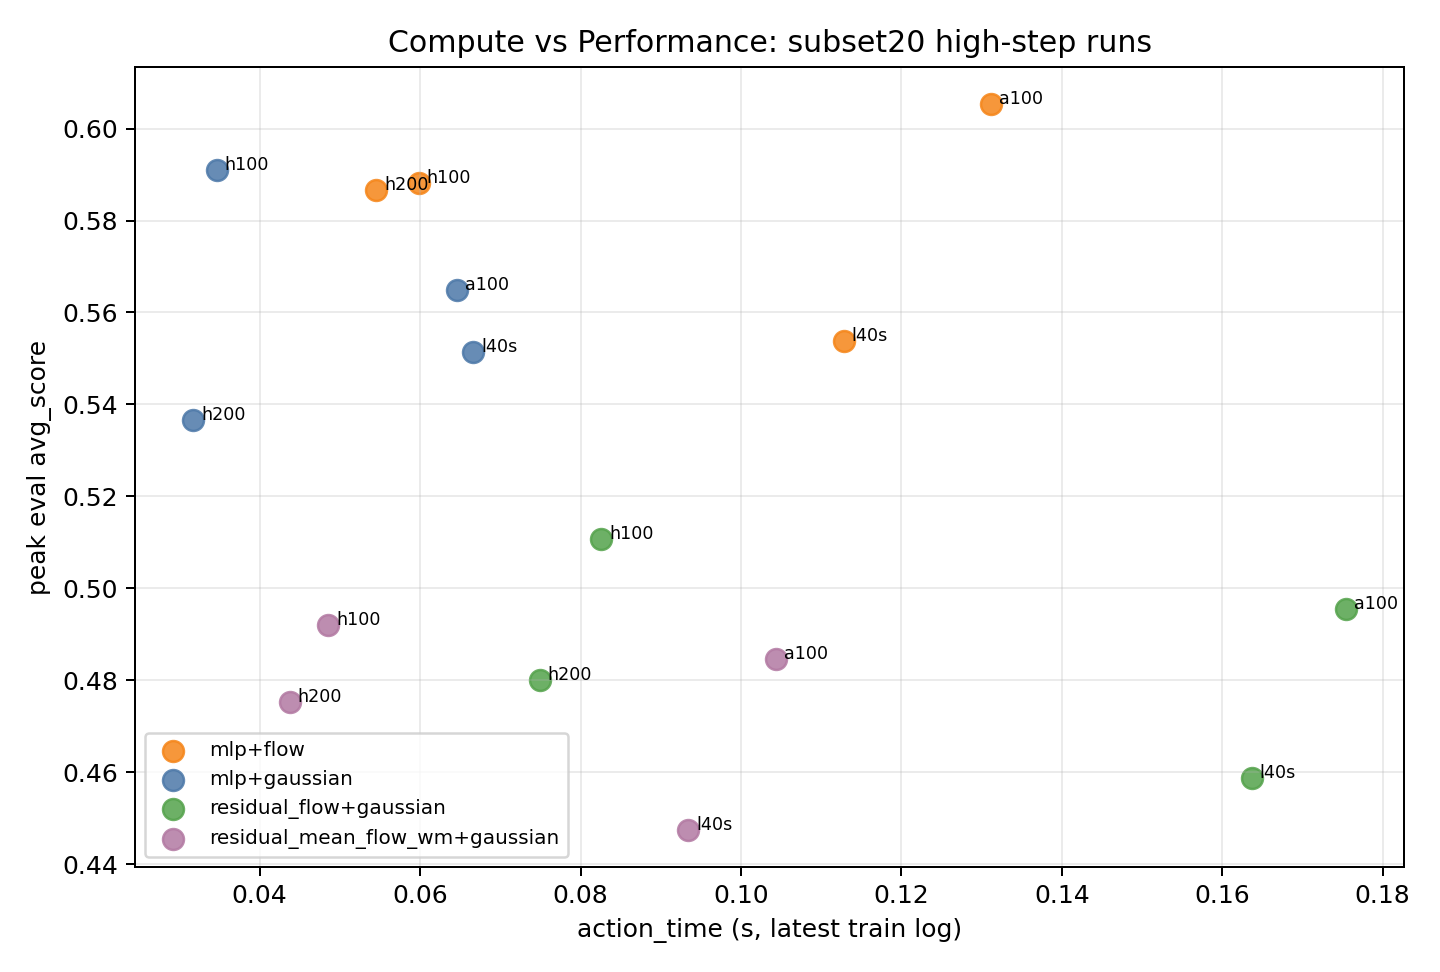
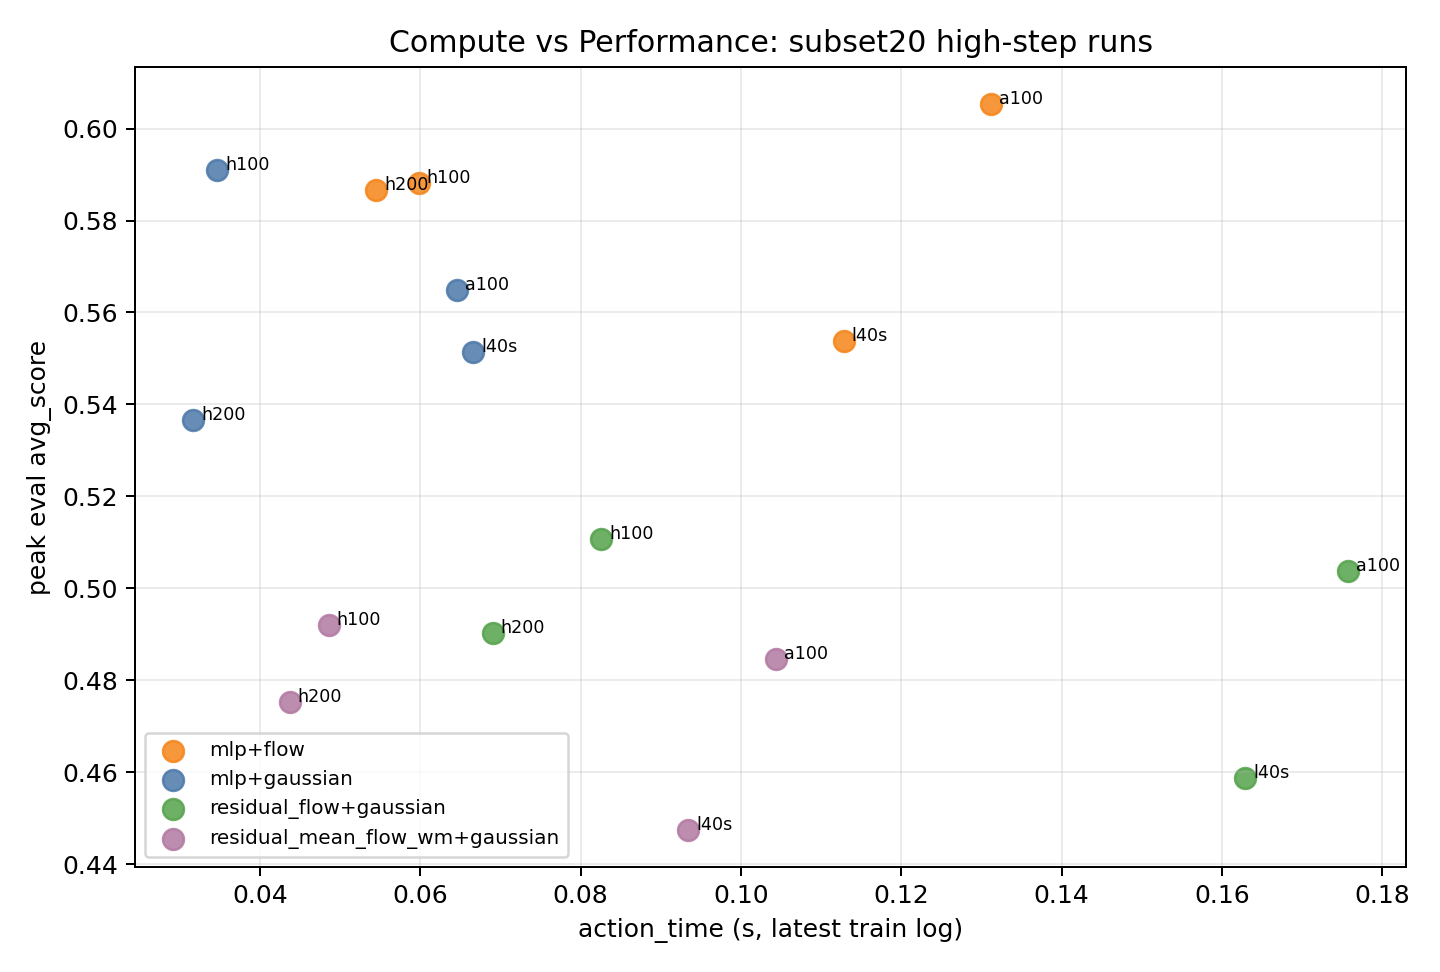
Record subset20 continuation status

diff --git a/docs/experiment_results_summary.md b/docs/experiment_results_summary.md
@@ -1,6 +1,6 @@
 # Experiment Results Summary
 
-Last updated: 2026-06-11 14:52 EDT
+Last updated: 2026-06-11 22:48 EDT
 
 Metric: `avg_score`, the Newt/MMBench normalized score averaged over evaluated tasks. This is the same normalized-score definition used by the official Newt paper, but our local subset20/subset40 results are not directly comparable to the official 200-task protocol.
 
@@ -66,14 +66,14 @@ Metric: `avg_score`, the Newt/MMBench normalized score averaged over evaluated t
 | Subset20 10M high-step | 20 | 10M target + 50k demo | MLP | flow | H200 | complete | 10.0M | 0.53852 | Reached 10M; peak observed eval was 0.58663 at 8.8M. |
 | Subset20 10M high-step | 20 | 10M target + 50k demo | MLP | Gaussian | A100 | complete | 10.0M | 0.53570 | Completed 10M; peak observed eval was 0.56490 at 9.4M. |
 | Subset20 10M high-step | 20 | 10M target + 50k demo | MLP | flow | A100 | complete | 10.0M | 0.57810 | Best subset20 final and peak MLP+flow run so far; peak observed eval was 0.60544 at 9.0M. |
-| Subset20 10M high-step | 20 | 10M target + 50k demo | residual_flow | Gaussian | L40S | running | 7.6M | 0.37208 | Active as `9820444_2`; peak observed eval was 0.45885 at 6.8M. |
+| Subset20 10M high-step | 20 | 10M target + 50k demo | residual_flow | Gaussian | L40S | resubmitted | 8.4M | 0.38918 | Resubmitted as `9852202_[2]`; peak observed eval was 0.45885 at 6.8M. |
 | Subset20 10M high-step | 20 | 10M target + 50k demo | residual_mean_flow_wm | Gaussian | A100 | complete | 10.0M | 0.37559 | Reached 10M; peak observed eval was 0.48471 at 7.2M. |
 | Subset20 10M high-step | 20 | 10M target + 50k demo | residual_mean_flow_wm | Gaussian | H200 | complete | 10.0M | 0.39218 | Reached 10M; peak observed eval was 0.47535 at 9.0M. |
 | Subset20 10M high-step | 20 | 10M target + 50k demo | residual_mean_flow_wm | Gaussian | H100 | complete | 10.0M | 0.48851 | Completed 10M despite Slurm preemption label; peak observed eval was 0.49207 at 9.2M. |
 | Subset20 10M high-step | 20 | 10M target + 50k demo | residual_flow | Gaussian | H100 | complete | 10.0M | 0.45304 | Reached 10M; peak observed eval was 0.51065 at 6.0M. |
-| Subset20 10M high-step | 20 | 10M target + 50k demo | residual_flow | Gaussian | A100 | resubmitted | 7.4M | 0.43775 | Resubmitted as `9835925_[2]`; peak observed eval was 0.49544 at 7.0M. |
-| Subset20 10M high-step | 20 | 10M target + 50k demo | residual_mean_flow_wm | Gaussian | L40S | running | 9.2M | 0.44734 | Active as `9820444_3`; current score is also its peak. |
-| Subset20 10M high-step | 20 | 10M target + 50k demo | residual_flow | Gaussian | H200 | resubmitted | 8.8M | 0.47051 | Resubmitted as `9835924_[2]`; peak observed eval was 0.47997 at 7.8M. |
+| Subset20 10M high-step | 20 | 10M target + 50k demo | residual_flow | Gaussian | A100 | resubmitted | 7.4M | 0.42752 | Preempted again and resubmitted as `9852195_[2]`; peak observed eval was 0.50374 at 7.0M. |
+| Subset20 10M high-step | 20 | 10M target + 50k demo | residual_mean_flow_wm | Gaussian | L40S | complete | 10.0M | 0.39409 | Reached 10M; peak observed eval was 0.44734 at 9.2M. |
+| Subset20 10M high-step | 20 | 10M target + 50k demo | residual_flow | Gaussian | H200 | complete | 10.0M | 0.45510 | Reached 10M; peak observed eval was 0.49021 at 9.6M. |
 
 Current read:
 
@@ -84,4 +84,5 @@ Current read:
 - Current subset20 ranking still favors MLP WM. A100 `MLP + flow` reached the best final and peak so far: 0.57810 final at 10M and 0.60544 peak at 9.0M.
 - The strongest completed original-style baseline remains `MLP + Gaussian`, with H100 0.53816 and A100 0.53570 at 10M; H200 reached 10M at 0.49223.
 - H100 `residual_flow + Gaussian` remains the strongest flow-WM signal by peak at 0.51065, but its 10M final is 0.45304 and it remains slower.
-- A100/H200 `residual_flow + Gaussian` were resubmitted as `9835925_[2]` and `9835924_[2]` to finish their remaining steps toward 10M.
+- H200 `residual_flow + Gaussian` also finished at 10M with 0.45510 final, still below the MLP-WM baselines.
+- A100/L40S `residual_flow + Gaussian` were resubmitted as `9852195_[2]` and `9852202_[2]` to finish their remaining steps toward 10M.

diff --git a/docs/subset20_high_steps_plan.md b/docs/subset20_high_steps_plan.md
@@ -834,6 +834,64 @@ Current read:
 - The remaining useful work is to finish A100/H200/L40S `residual_flow` and L40S `residual_mean_flow_wm` to complete the flow-WM comparison.
 - In parallel, the new H200 seed-2/seed-3 repeats test whether the observed `MLP+flow` advantage over `MLP+gaussian` is robust enough to report as more than a single-seed/hardware signal.
 
+## 2026-06-11 22:48 EDT status check
+
+Regenerated ablation tables/figures with:
+
+```bash
+/storage/project/r-agarg35-0/eliu354/envs/newt_official_20260602/bin/python scripts/generate_ablation_insights.py --out-dir docs/assets/ablation_insights_20260610
+```
+
+Latest highest-step eval snapshot:
+
+| Run | Highest train step | Highest eval step | `avg_score` | Peak `avg_score` | Status |
+| --- | ---: | ---: | ---: | ---: | --- |
+| A100 `mlp + flow` | 10.0M | 10.0M | 0.57810 | 0.60544 | complete; best subset20 final/peak so far |
+| H200 `mlp + flow` | 10.0M | 10.0M | 0.53852 | 0.58663 | complete |
+| H100 `mlp + gaussian` | 10.0M | 10.0M | 0.53816 | 0.59102 | complete |
+| A100 `mlp + gaussian` | 10.0M | 10.0M | 0.53570 | 0.56490 | complete |
+| L40S `mlp + flow` | 10.0M | 10.0M | 0.50825 | 0.55390 | complete |
+| H100 `mlp + flow` | 10.0M | 10.0M | 0.50044 | 0.58825 | complete |
+| H200 `mlp + gaussian` | 10.0M | 10.0M | 0.49223 | 0.53666 | complete |
+| L40S `mlp + gaussian` | 10.0M | 10.0M | 0.48801 | 0.55139 | complete |
+| H100 `residual_mean_flow_wm + gaussian` | 10.0M | 10.0M | 0.48851 | 0.49207 | complete |
+| H200 `residual_flow + gaussian` | 10.0M | 10.0M | 0.45510 | 0.49021 | complete |
+| H100 `residual_flow + gaussian` | 10.0M | 10.0M | 0.45304 | 0.51065 | complete |
+| L40S `residual_mean_flow_wm + gaussian` | 10.0M | 10.0M | 0.39409 | 0.44734 | complete |
+| A100 `residual_mean_flow_wm + gaussian` | 10.0M | 10.0M | 0.37559 | 0.48471 | complete |
+| A100 `residual_flow + gaussian` | 7.44M | 7.4M | 0.42752 | 0.50374 | resubmitted |
+| L40S `residual_flow + gaussian` | 8.46M | 8.4M | 0.38918 | 0.45885 | resubmitted |
+
+Repair submissions:
+
+| Job | Partition | Array | Run tag | Cell | Reason |
+| ---: | --- | --- | --- | --- | --- |
+| `9852195` | `gpu-a100` | `2` | `a100-r1` | `residual_flow + gaussian` | Previous A100 continuation was preempted at 7.44M; resume from latest checkpoint. |
+| `9852202` | `gpu-l40s` | `2` | `l40s-r1` | `residual_flow + gaussian` | Previous L40S continuation stopped at 8.46M; resubmitted with `BATCH_SIZE=512` and `--cpus-per-task=4` to satisfy the L40S CPU:GPU policy. |
+
+True-seed repeat progress:
+
+| Run | Highest train step | Highest eval step | `avg_score` | Peak `avg_score` | Status |
+| --- | ---: | ---: | ---: | ---: | --- |
+| H200 seed2 `mlp + gaussian` | 4.50M | 4.4M | 0.39483 | 0.49424 | running as `9836001_0` |
+| H200 seed2 `mlp + flow` | 1.82M | 1.8M | 0.41404 | 0.41404 | running as `9836001_1` |
+| H200 seed3 `mlp + gaussian` | 1.52M | 1.4M | 0.35620 | 0.38117 | running as `9836002_0` |
+| H200 seed3 `mlp + flow` | 0.78M | 0.6M | 0.31900 | 0.31900 | running as `9836002_1` |
+
+Queue after resubmission:
+
+- `9852195_[2]`: A100 `residual_flow + gaussian`, pending.
+- `9852202_[2]`: L40S `residual_flow + gaussian`, pending.
+- `9836001_[0-1]`: H200 seed-2 repeats for `mlp + gaussian` and `mlp + flow`, running.
+- `9836002_[0-1]`: H200 seed-3 repeats for `mlp + gaussian` and `mlp + flow`, running.
+
+Current read:
+
+- The subset20 architecture conclusion is unchanged: MLP-WM cells are still clearly ahead of flow-WM cells.
+- H200 `residual_flow` reached 10M but finished at `0.45510`, essentially tied with H100 `residual_flow` final `0.45304` and still below MLP-WM baselines.
+- A100/L40S `residual_flow` are the only remaining incomplete subset20 flow-WM cells; both have been resubmitted.
+- True-seed repeats are now the main path for making the `MLP+flow` vs `MLP+gaussian` conclusion reportable rather than single-seed/hardware dependent.
+
 ## Success Criteria
 
 Primary metric:

diff --git a/docs/ablation_insights_summary.md b/docs/ablation_insights_summary.md
@@ -7,7 +7,7 @@ Source metrics:
 - Local run logs: `outputs/logs/soup/1/*/metrics.jsonl`
 - Generated tables/figures: `docs/assets/ablation_insights_20260610/`
 - W&B project: https://wandb.ai/danny010324/newt-flow-2x2
-- Latest figure refresh: 2026-06-11 14:52 EDT. The subset20 high-step CSVs and figures were regenerated because new 10M completions and residual-flow continuations arrived.
+- Latest figure refresh: 2026-06-11 22:48 EDT. The subset20 high-step CSVs and figures were regenerated after H200 residual_flow reached 10M and additional A100/L40S residual_flow continuation metrics arrived.
 
 Important caveat: `mean +/- std` below is over completed local runs across GPU/replicate labels, not over independent random seeds unless explicitly stated.
 
@@ -21,7 +21,7 @@ Important caveat: `mean +/- std` below is over completed local runs across GPU/r
 | Our subset40 best completed 2x2 | 40 | 5M + 50k demo | MLP WM | Flow policy | 5M | 0.321 +/- 0.012 | 0.339 | Mean +/- std over 4 completed runs; best single run 0.339. Best completed 2x2 architecture. |
 | Our subset40 best flow-WM | 40 | 5M + 50k demo | Residual_flow WM | Gaussian | 5M | 0.232 +/- 0.027 | 0.256 | Mean +/- std over 4 completed runs; best single run 0.256. Best flow-WM variant, still below MLP WM. |
 | Our subset20 strongest signal | 20 | 10M target + 50k demo | MLP WM | Flow policy | 10.0M | 0.500-0.578 | 0.605 | All four hardware/replicate labels reached 10M; A100 is best with 0.578 final and 0.605 peak. |
-| Our subset20 promising flow-WM | 20 | 10M target + 50k demo | Residual_flow WM | Gaussian | 7.4M-10.0M current | 0.372-0.471 | 0.511 | H100 residual_flow peak is still the strongest flow-WM signal, but 10M H100 final is 0.453 and remains below MLP-WM peak. |
+| Our subset20 promising flow-WM | 20 | 10M target + 50k demo | Residual_flow WM | Gaussian | 7.4M-10.0M current | 0.389-0.455 | 0.511 | H100 residual_flow peak is still the strongest flow-WM signal; H100/H200 10M finals are 0.453/0.455 and remain below MLP-WM. |
 
 ## Architecture Ablation
 
